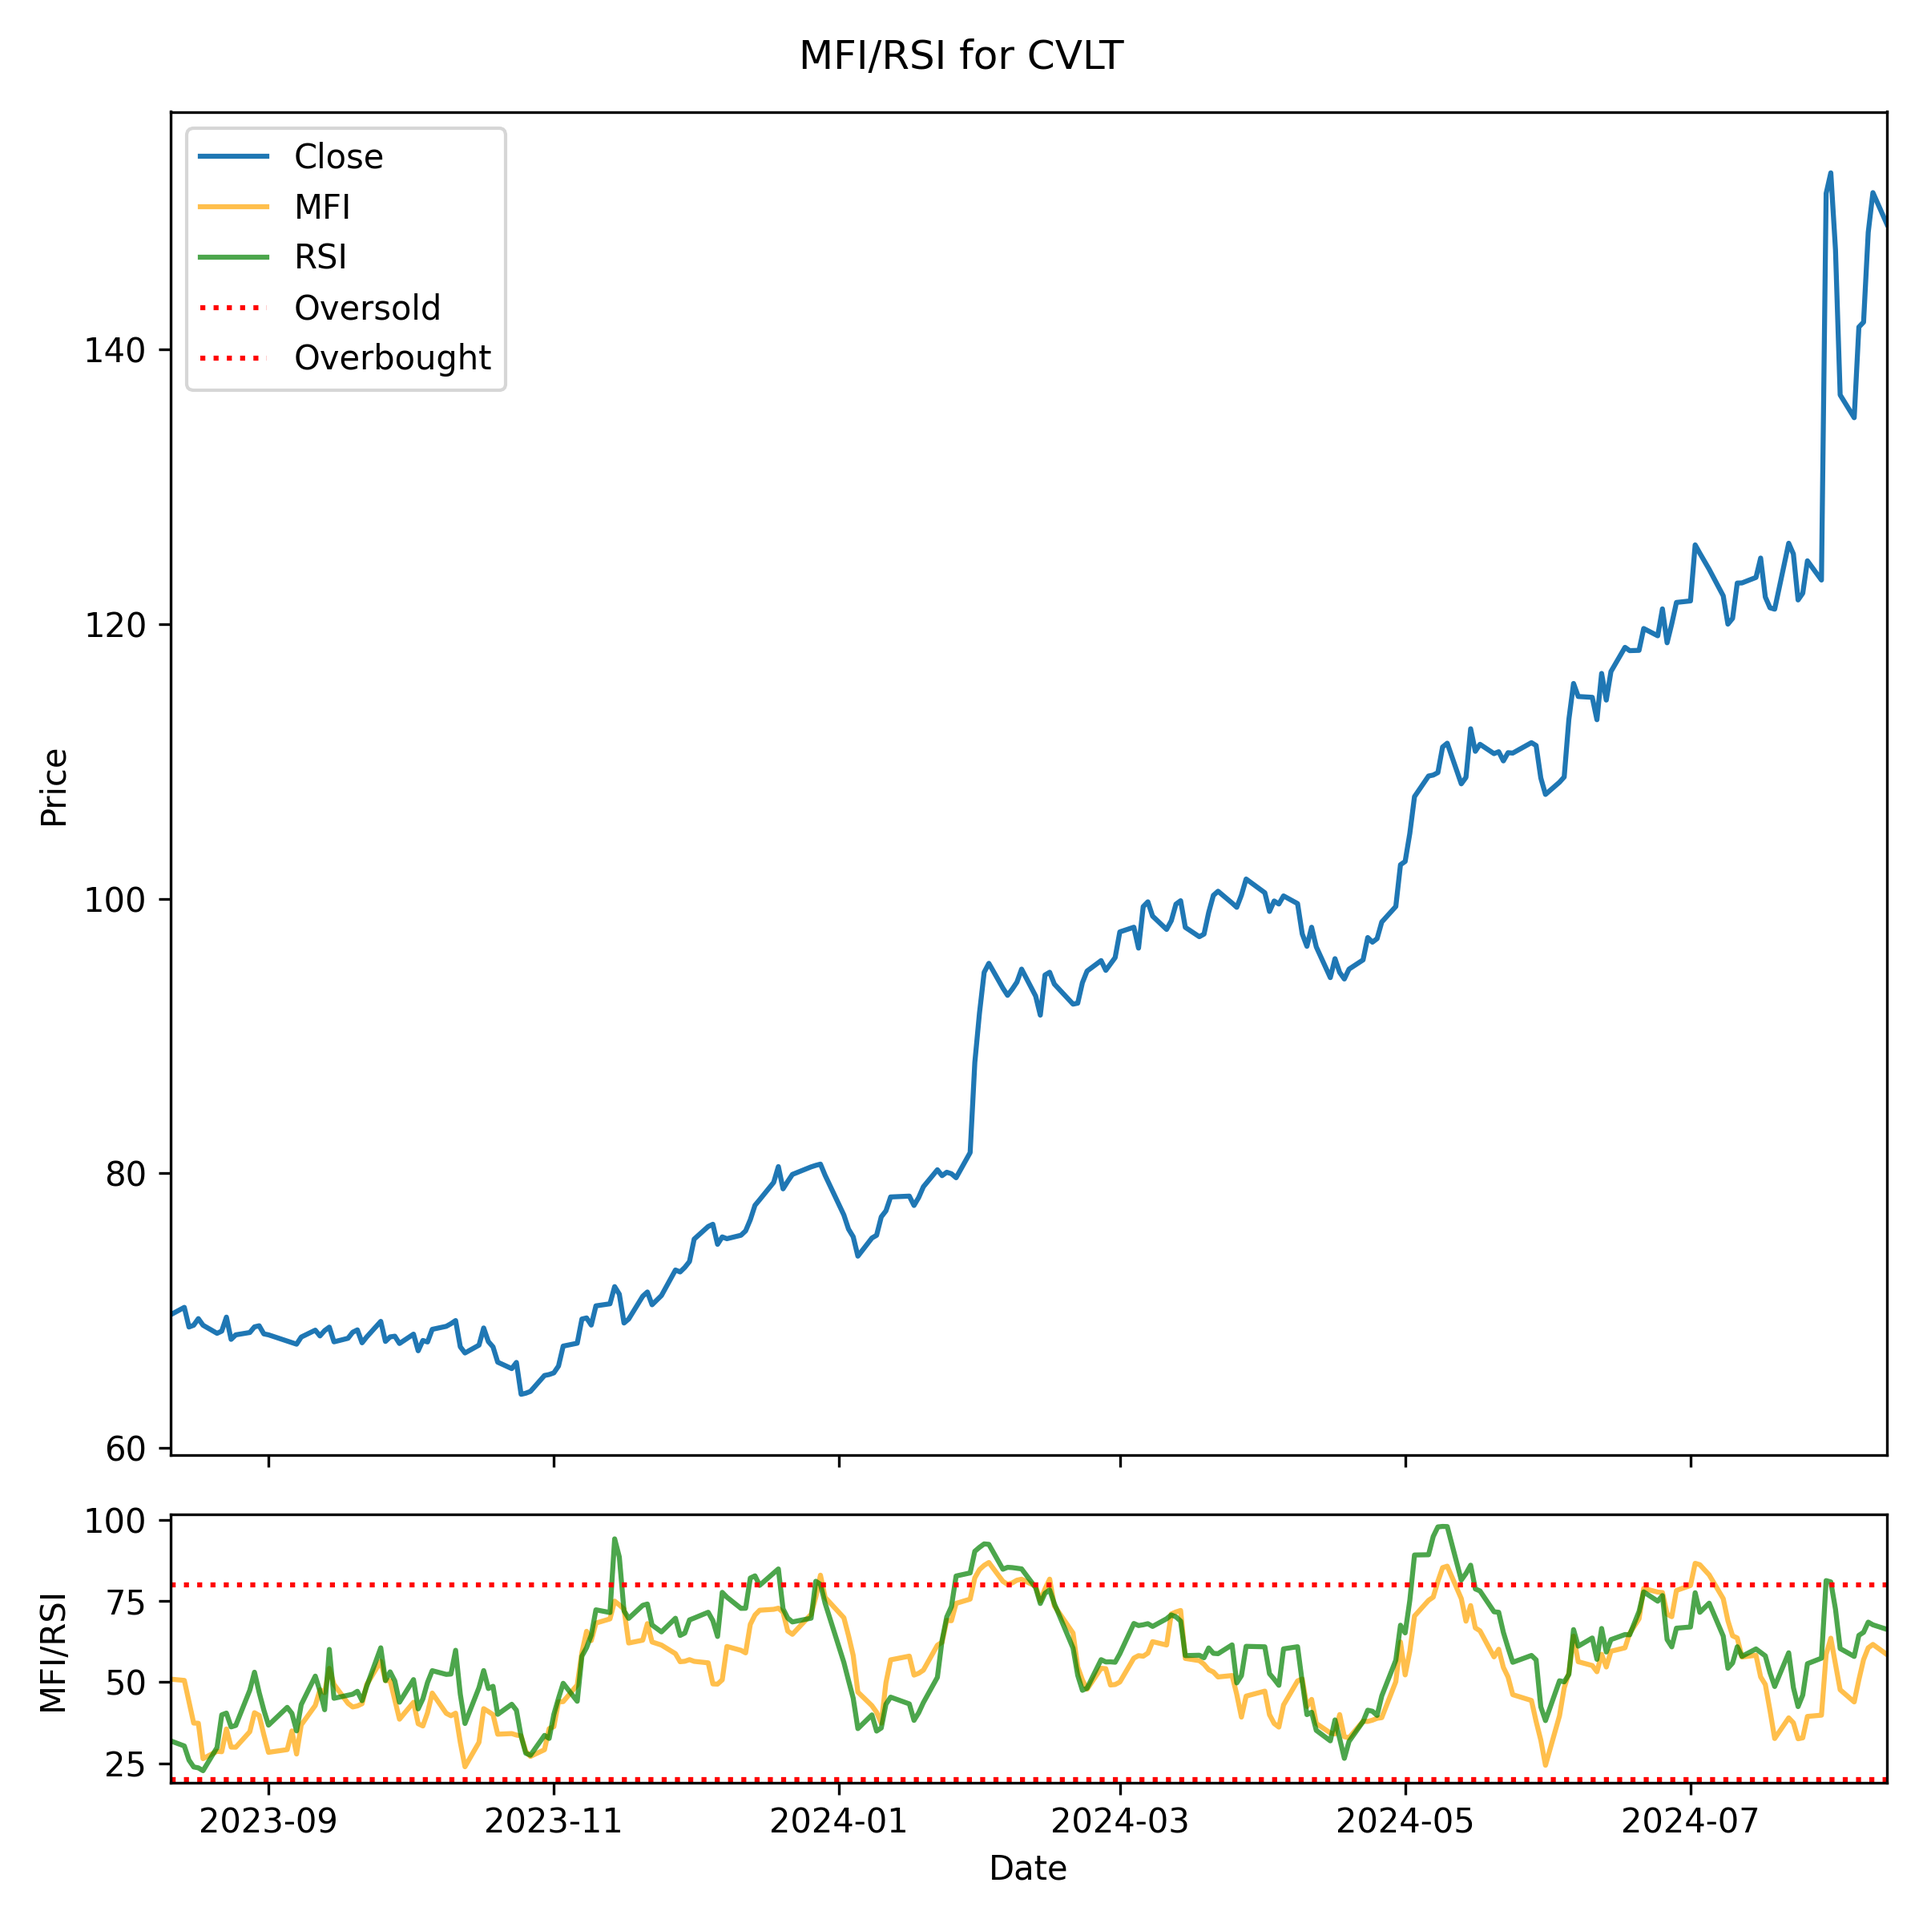
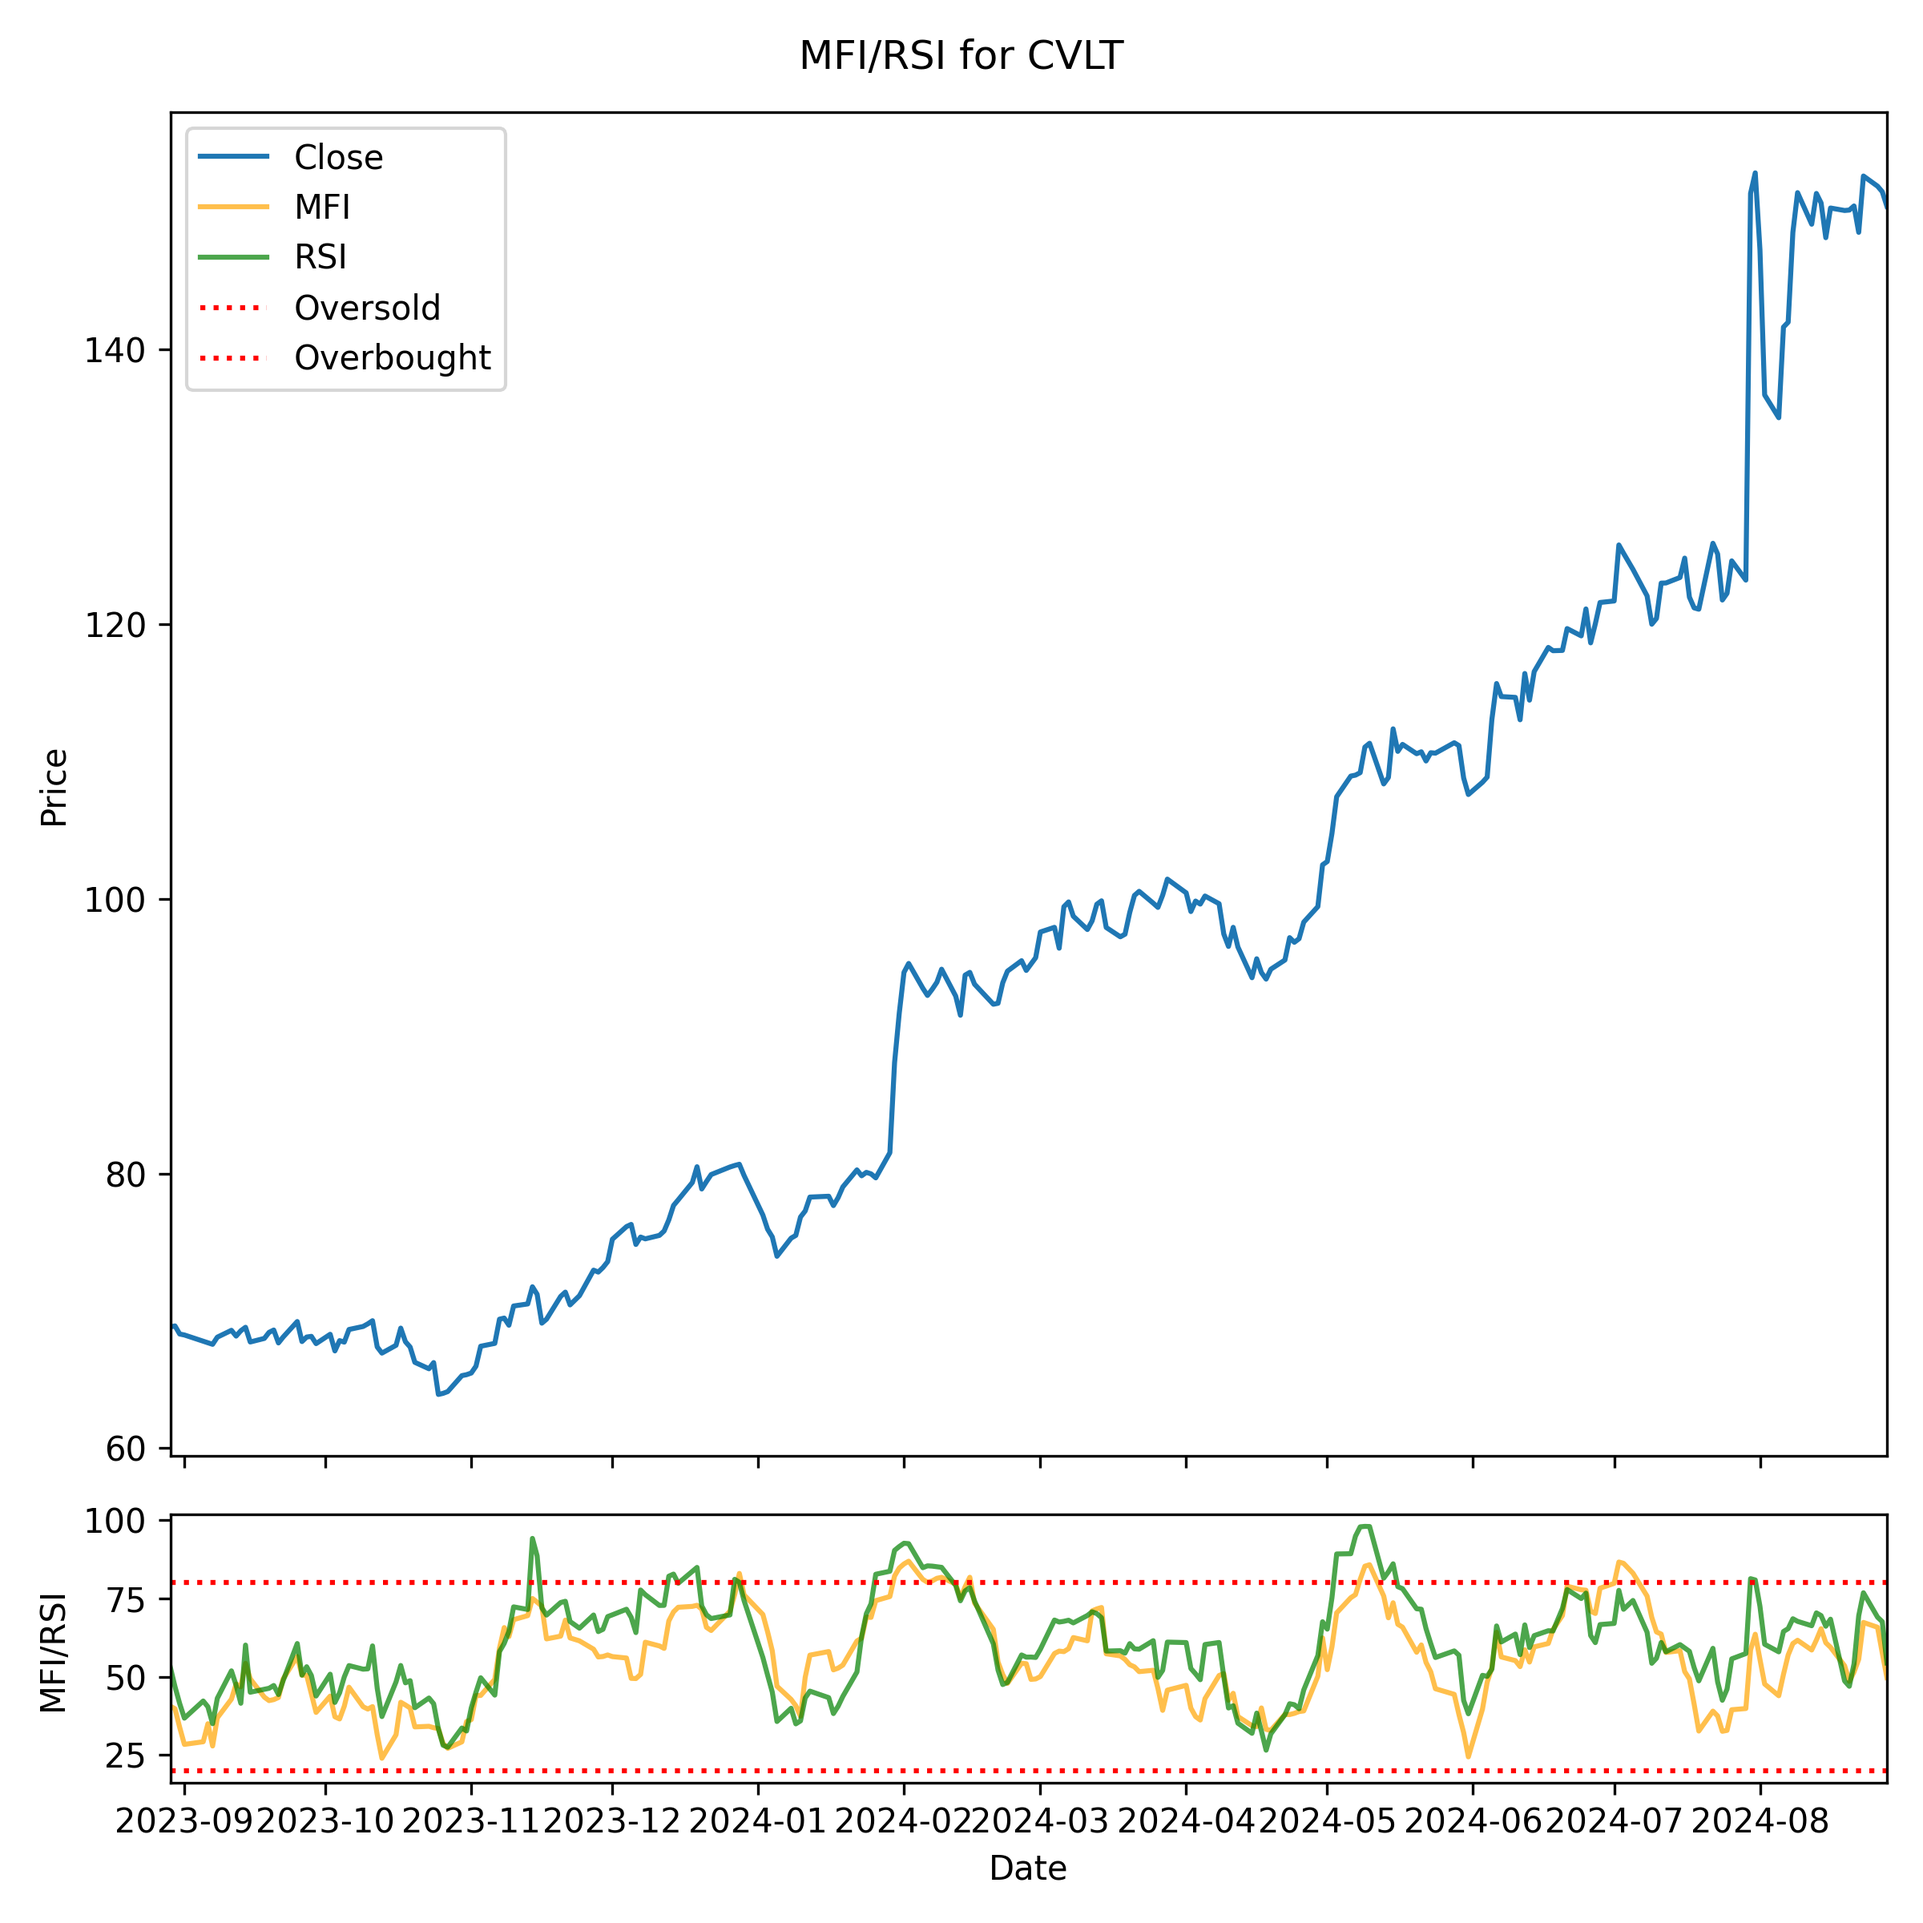
In progress

diff --git a/Program/test_stock.py b/Program/test_stock.py
@@ -13,7 +13,7 @@ start = dt.datetime.now()
 current_date = start.strftime("%Y-%m-%d")
 
 # Choose the stocks
-stocks = ["IBM"]
+stocks = ["CVLT"]
 
 # Iterate over stocks
 for stock in stocks:
@@ -23,8 +23,8 @@ for stock in stocks:
     plot_stocks(["^GSPC", "^IXIC", stock], current_date, save=True)
 
 # Get the stop loss and target price of a stock
-stock = "QID"
-stoploss, stoploss_pct, target, target_pct = stoploss_target(stock, 43.6, current_date)
+stock = "CVLT"
+stoploss, stoploss_pct, target, target_pct = stoploss_target(stock, 152, current_date)
 print(f"Stoploss: {stoploss}, {stoploss_pct} (%).")
 print(f"Target price: {target}, {target_pct} (%).")
 
